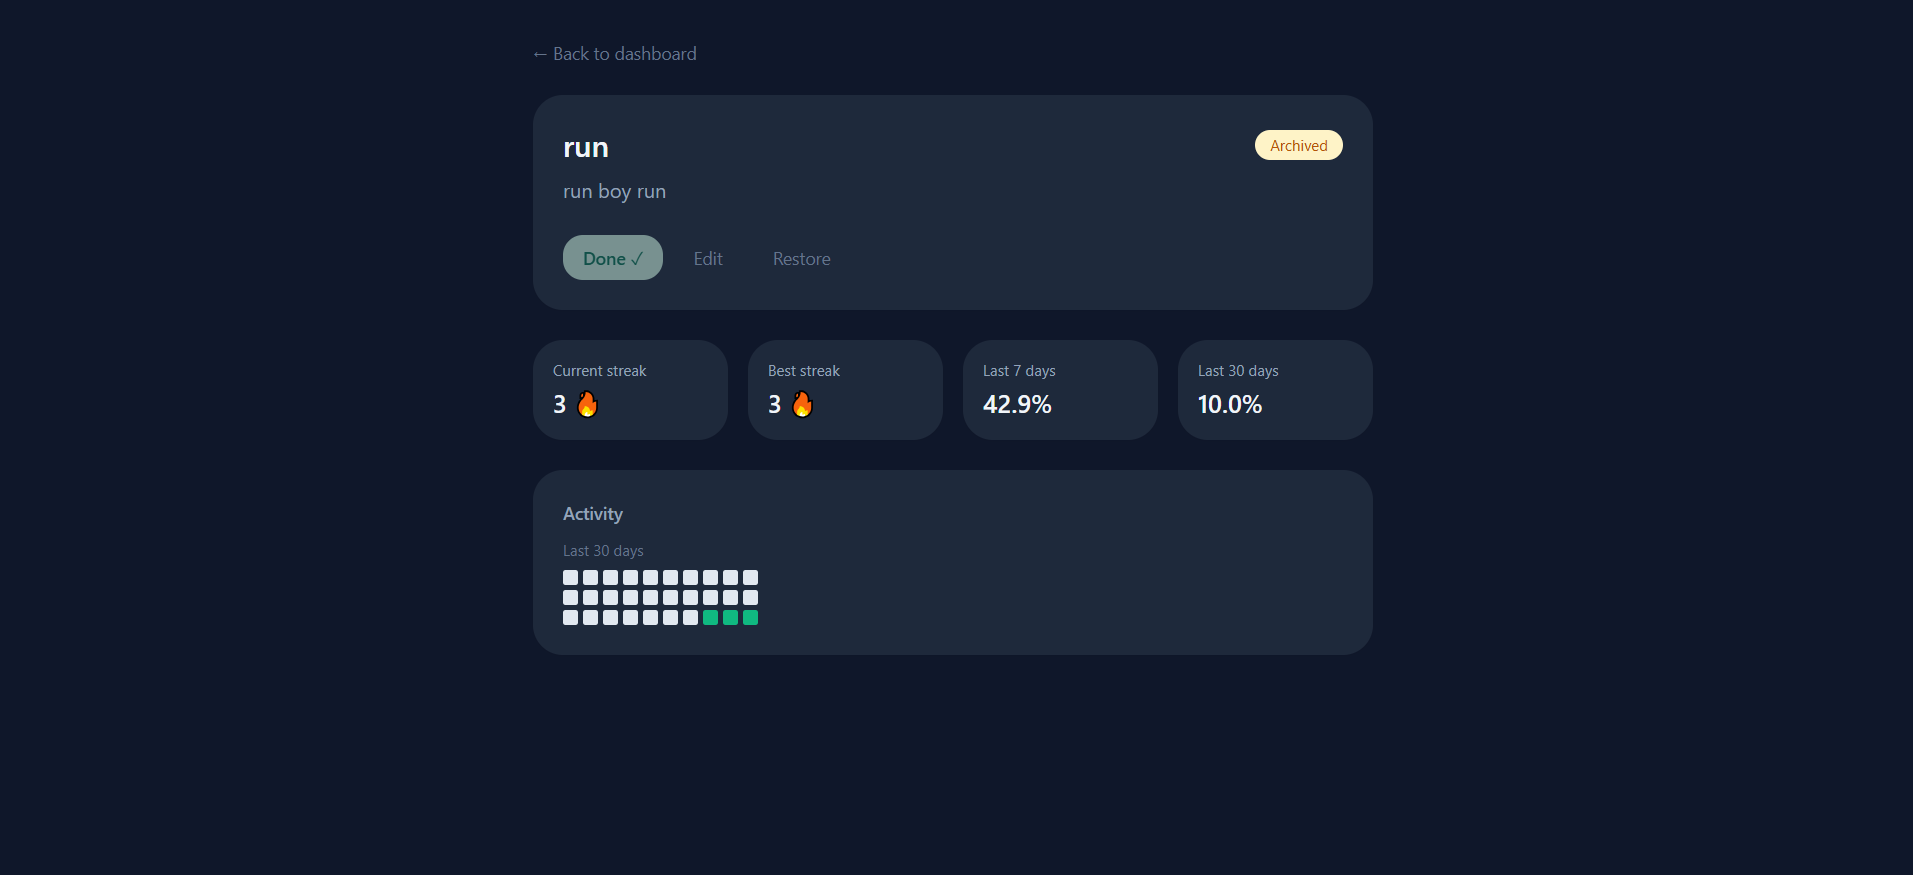
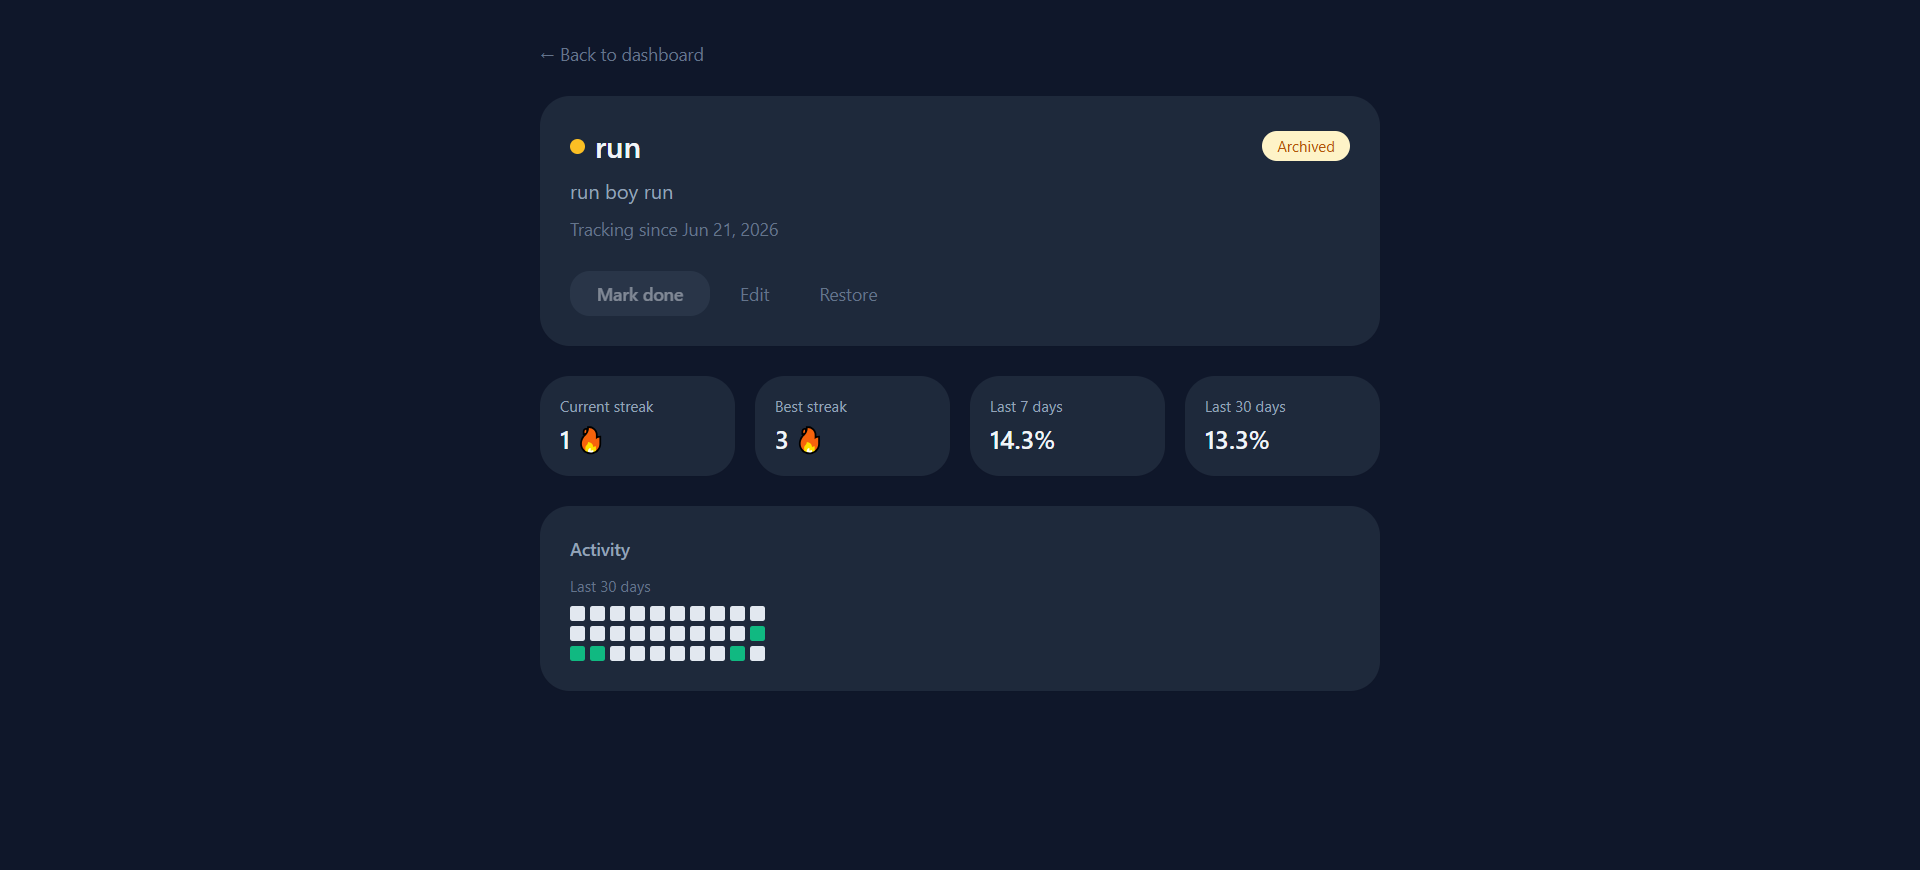
update README.md

diff --git a/README.md b/README.md
@@ -21,6 +21,8 @@
 - Auto-refresh of access token via refresh token rotation
 - Dashboard with total habits, completed today, and best streak
 - Habit CRUD — create, edit, archive / restore (no hard delete)
+- Custom color per habit, shown on the dashboard and detail page
+- 7-day activity strip on each dashboard habit card
 - Filter habits by Active / Archived / All, with a dedicated empty state per filter
 - Sort by pending, completed, streak, or alphabetically
 - Mark habits as done / undo
@@ -28,6 +30,7 @@
 - Persisted dark mode, applied consistently across every route
 - Filter and sort selection persisted in the URL (shareable, survives refresh, cleared on logout)
 - Auto-dismissing success messages
+- End-to-end test suite (Playwright) covering auth, habit CRUD, detail page, and color selection
 
 ---
 
@@ -42,6 +45,7 @@
 | Auth       | JWT (access + refresh tokens) |
 | API client | fetch (native)      |
 | State      | React Context + hooks |
+| E2E testing | Playwright         |
 
 ---
 
@@ -85,7 +89,9 @@ src/
 
 ├── utils/
 
-│   └── sortHabits.js
+│   ├── sortHabits.js
+
+│   └── habitColors.js       # HABIT_COLORS palette + habitColorClass helper
 
 ├── AuthPage.jsx              # login / register screen
 
@@ -98,6 +104,22 @@ src/
 ├── App.jsx                    # route definitions + dark mode state
 
 └── main.jsx                   # React Router + AuthProvider setup
+
+e2e/                          # Playwright end-to-end tests
+
+├── auth.spec.js               # login / registration / token refresh
+
+├── habits.spec.js             # habit CRUD, filters, sorting
+
+├── habit-detail.spec.js       # detail page stats, edit, archive
+
+├── habit-color.spec.js        # color picker and color persistence
+
+├── fixtures.js                 # authedPage / registeredUser fixtures
+
+├── helpers.js                  # shared test helpers (createHabitViaUI, uniqueEmail)
+
+└── global-setup.js             # test environment bootstrap
 
 ---
 
@@ -119,6 +141,17 @@ npm run dev
 ```
 
 UI will be available at `http://localhost:5173`
+
+---
+
+## Running E2E tests
+
+```bash
+npx playwright install   # first time only
+npm run test:e2e
+```
+
+Tests run against a live API on `http://localhost:8000`, so make sure the backend is up first. Each test registers its own user, so runs are isolated from each other.
 
 ---
 